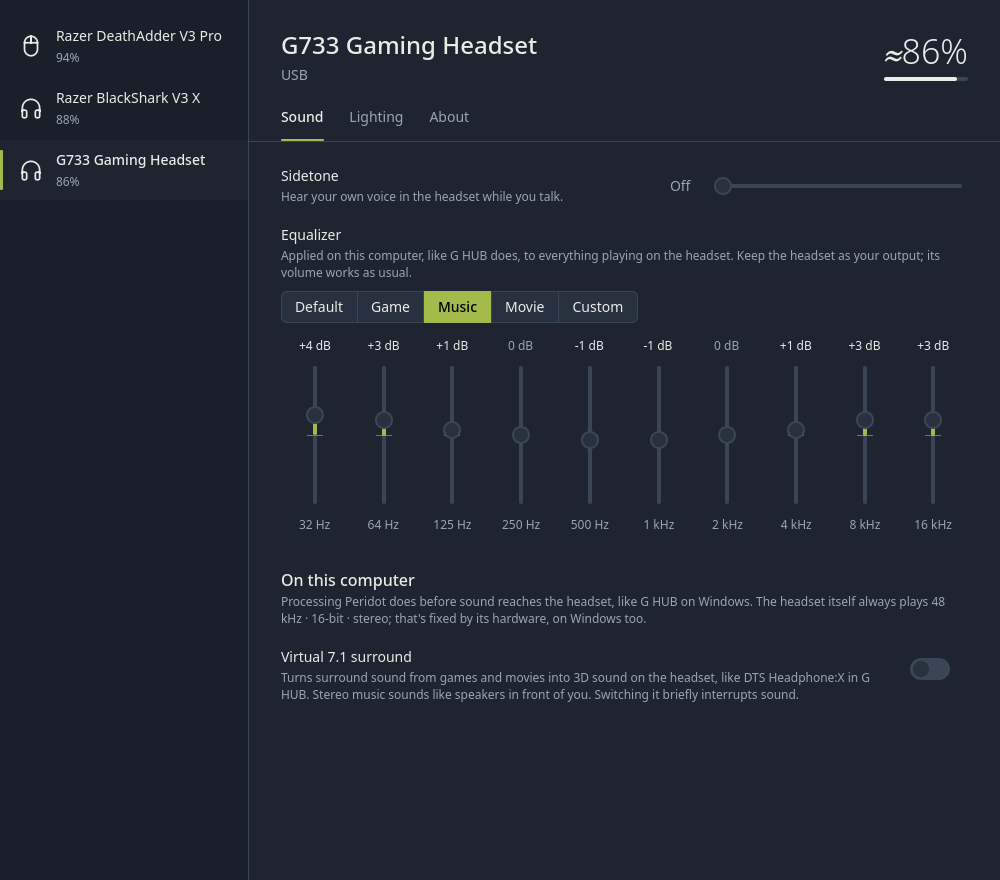
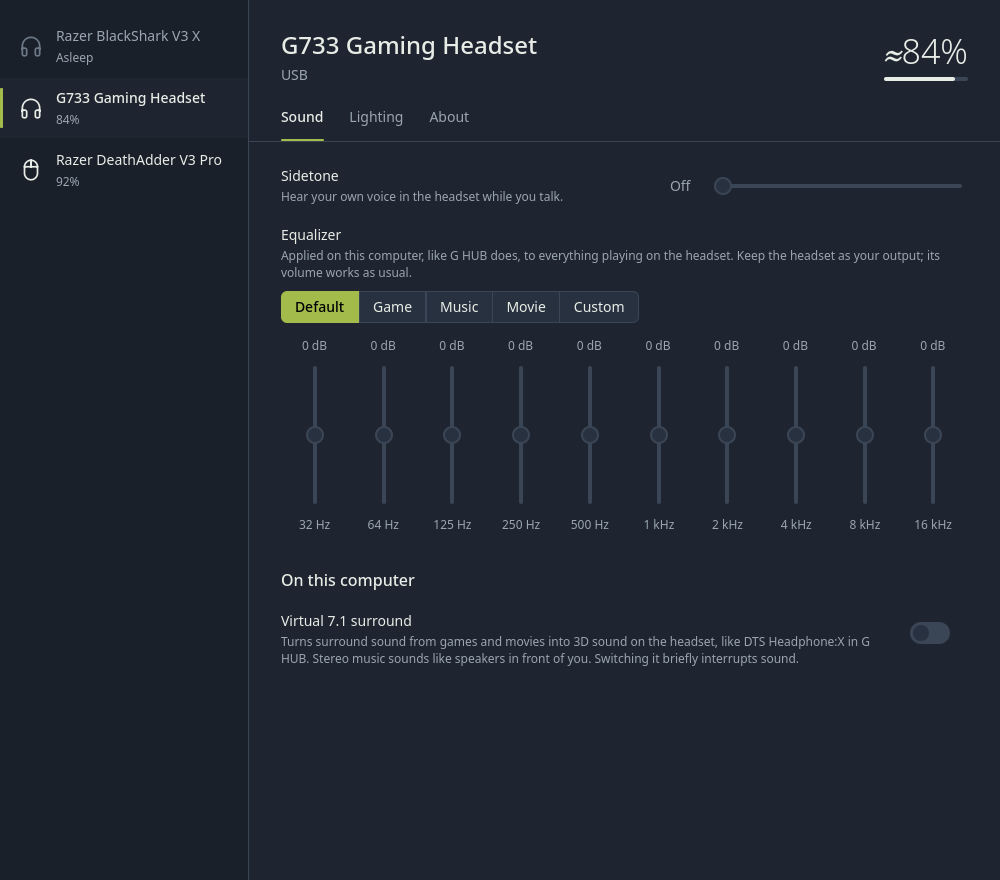
Drop the description under "On this computer"

diff --git a/app/qml/SoundSection.qml b/app/qml/SoundSection.qml
@@ -222,9 +222,6 @@ Column {
         SectionTitle {
             width: parent.width
             text: qsTr("On this computer")
-            hint: root.pc && root.pc.format
-                  ? qsTr("Processing Peridot does before sound reaches the headset, like G HUB on Windows. The headset itself always plays %1; that's fixed by its hardware, on Windows too.").arg(root.pc.format)
-                  : qsTr("Processing Peridot does before sound reaches the headset, like G HUB on Windows.")
         }
 
         Text {
